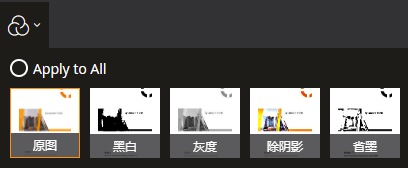
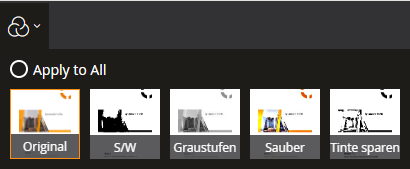
Chinese to German

diff --git a/features/advanced/imagefilter.md b/features/advanced/imagefilter.md
@@ -85,19 +85,18 @@ Label string for each filter type means the string which is displayed in the Fil
 
 **Use case**
 
-Change label strings' language to Chinese.
+Change label strings' language to Deutsch.
 
 ```typescript
 class MyImageFilter extends Dynamsoft.DDV.ImageFilter {
     querySupported() {
         const myFilterList = [
-            {type: "none", label: "原图"},
-            {type: "blackAndWhite", label: "黑白"},
-            {type: "gray", label: "灰度"},
-            {type: "removeShadow", label: "除阴影"},
-            {type: "saveInk", label: "省墨"},
+            {type: "none", label: "Original"},
+            {type: "blackAndWhite", label: "S/W"},
+            {type: "gray", label: "Graustufen"},
+            {type: "removeShadow", label: "Sauber"},
+            {type: "saveInk", label: "Tinte sparen"},
         ];
-
         return myFilterList;
     }
 }
@@ -172,4 +171,4 @@ Dynamsoft.DDV.setProcessingHandler("imageFilter", imageFilter);
 
 ## Reference
 
-- [`ImageFilter` class]({{ site.api }}class/advanced/imagefilter.html)
+- [`ImageFilter class`]({{ site.api }}class/advanced/imagefilter.html)
